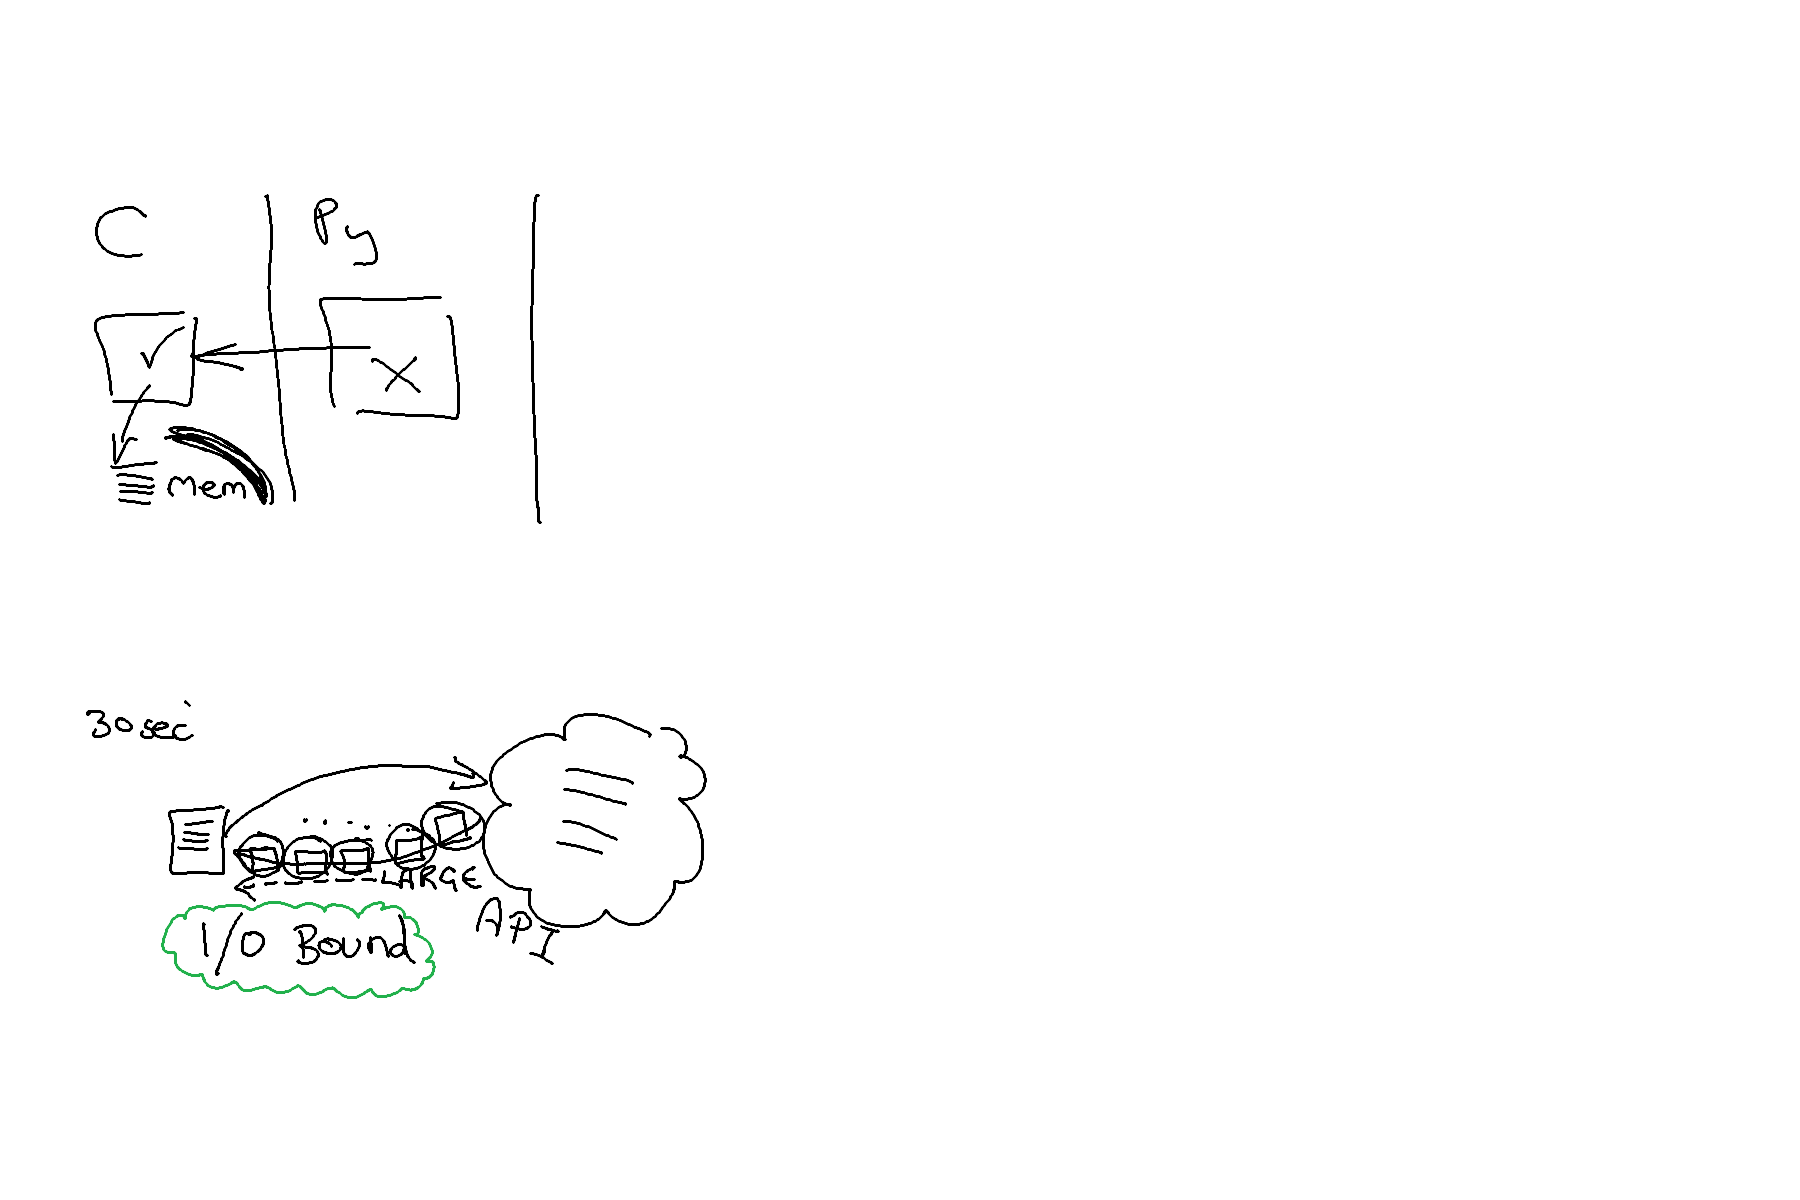
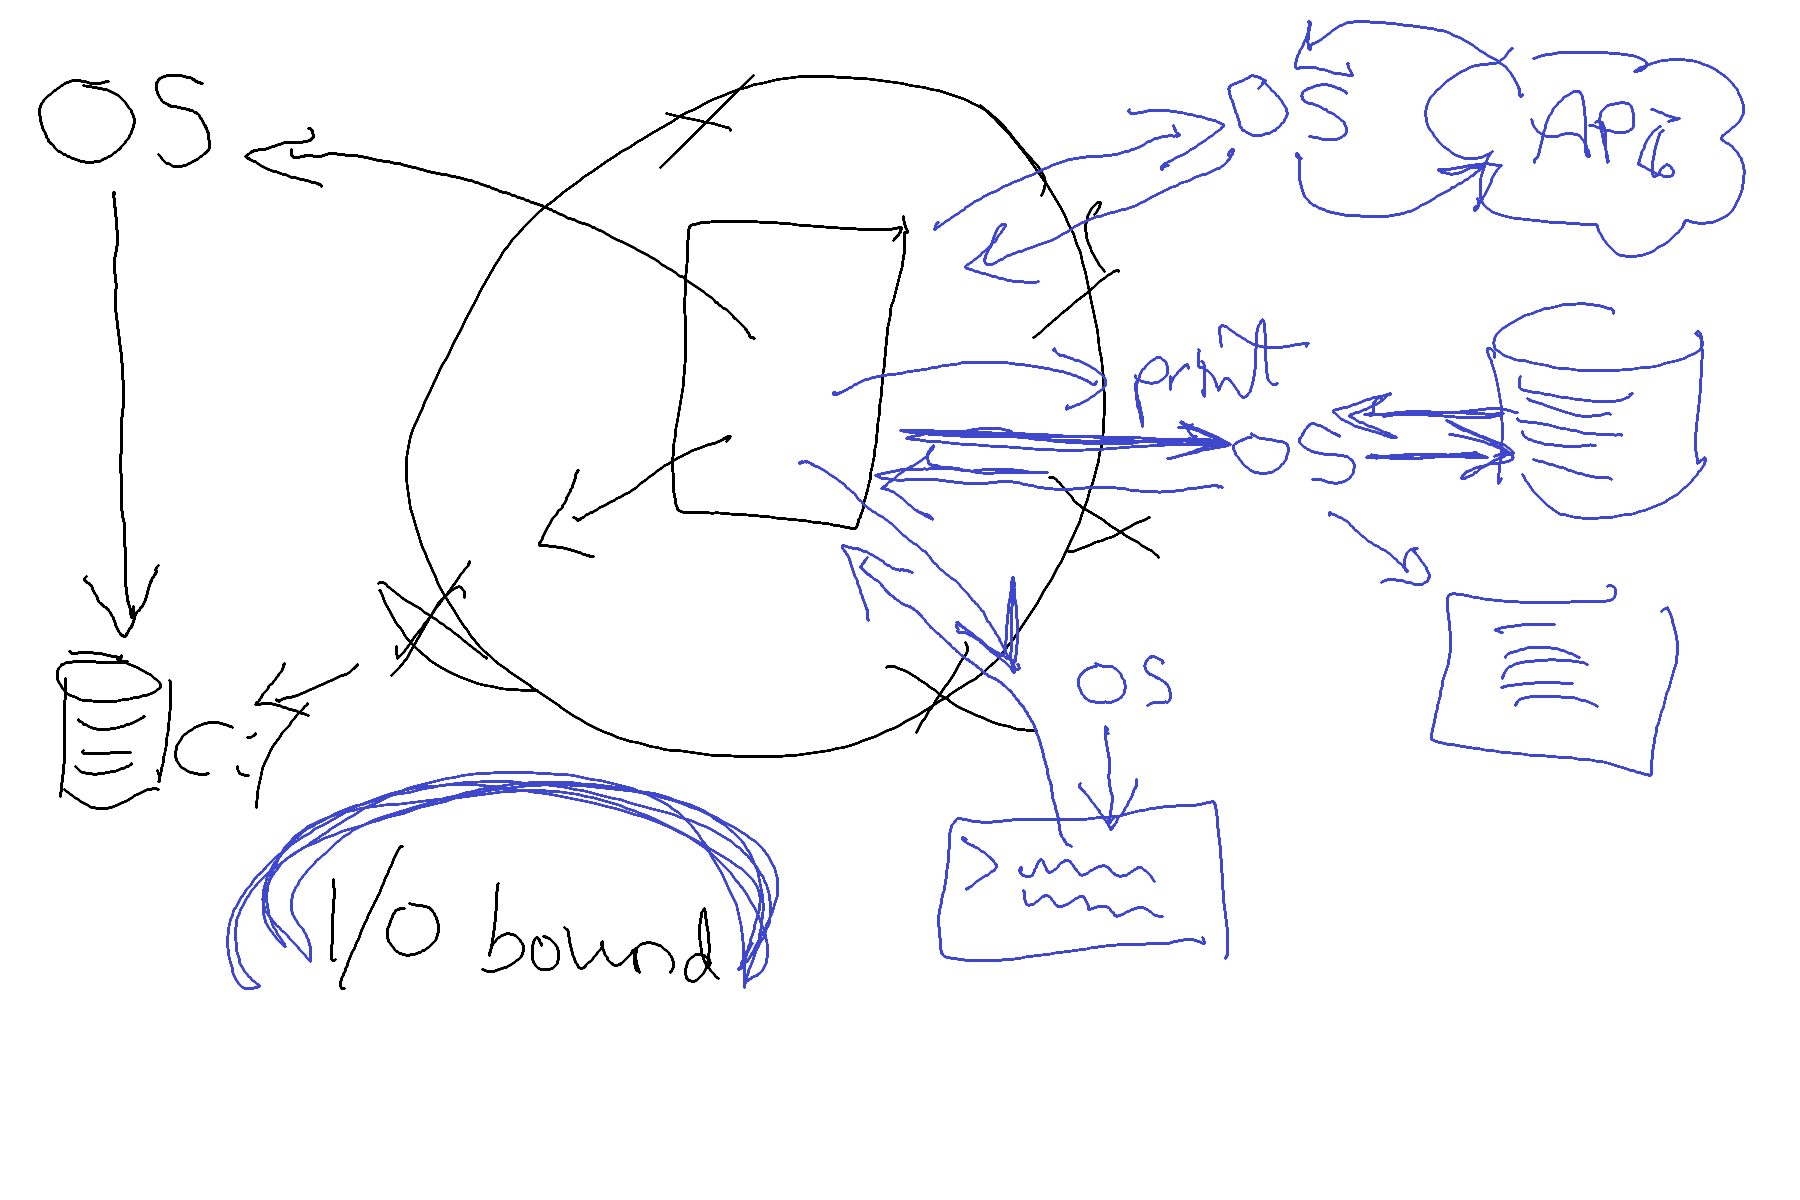
start of day 3

diff --git a/readme.md b/readme.md
@@ -23,9 +23,9 @@ Toby Dussek
   > use letters, numbers and underscore, don't start with a digit
   > by convention we use snake_case, camelCase, or PascalCase
   - anything with two leading underscores is part of Python
-    - e.g. __main__
+    - e.g. `__main__`
   - anything with a single leading underscore is a convention
-    - e.g. _hidden, def _wibble()
+    - e.g. `_hidden`, `def _wibble()`
 > import relative folders
 > the 'in' operator for loops
 > boolean True and False
@@ -59,8 +59,8 @@ Website Registration Code: FJZVCP
 > exception handling (try-except etc.)
 > debug tools   
 >review exercise
-- File input and output
-  - work with very large data: buffers and chunks of data
+> File input and output
+  > work with very large data: buffers and chunks of data
 
 ### Wednesday
 - in Python EVERTHING is an Object - every function, every class every module....
@@ -72,6 +72,8 @@ Website Registration Code: FJZVCP
 - properties, methods, __str__
 - review exercise
 - end of course feedback:
+
+
 
 
 - where to go from here:
